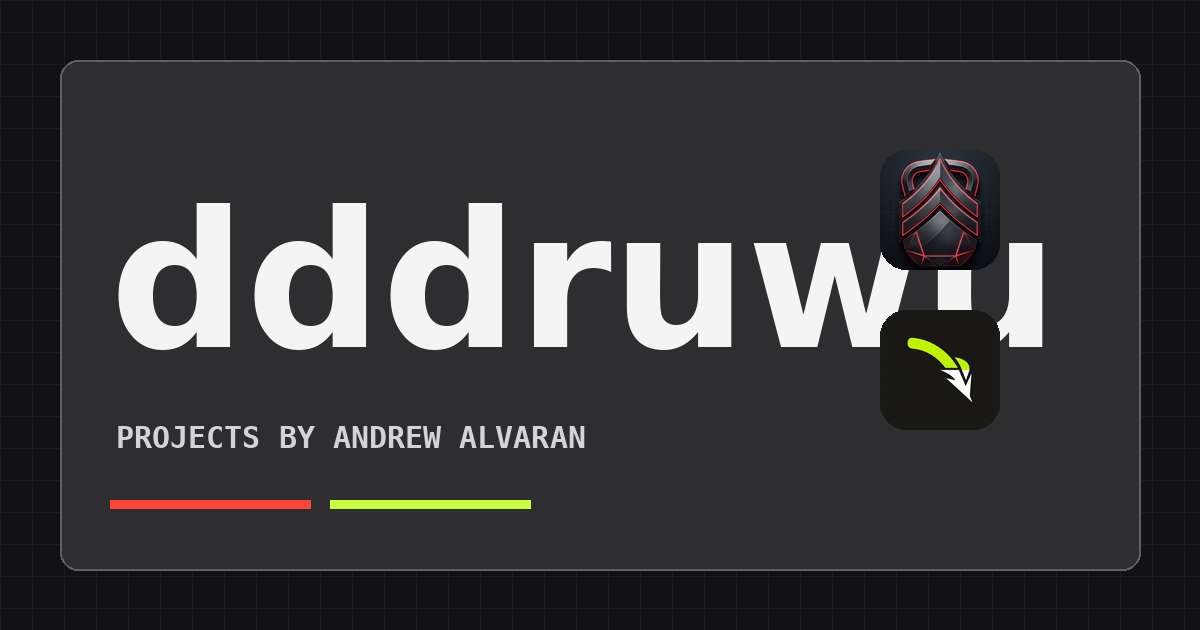
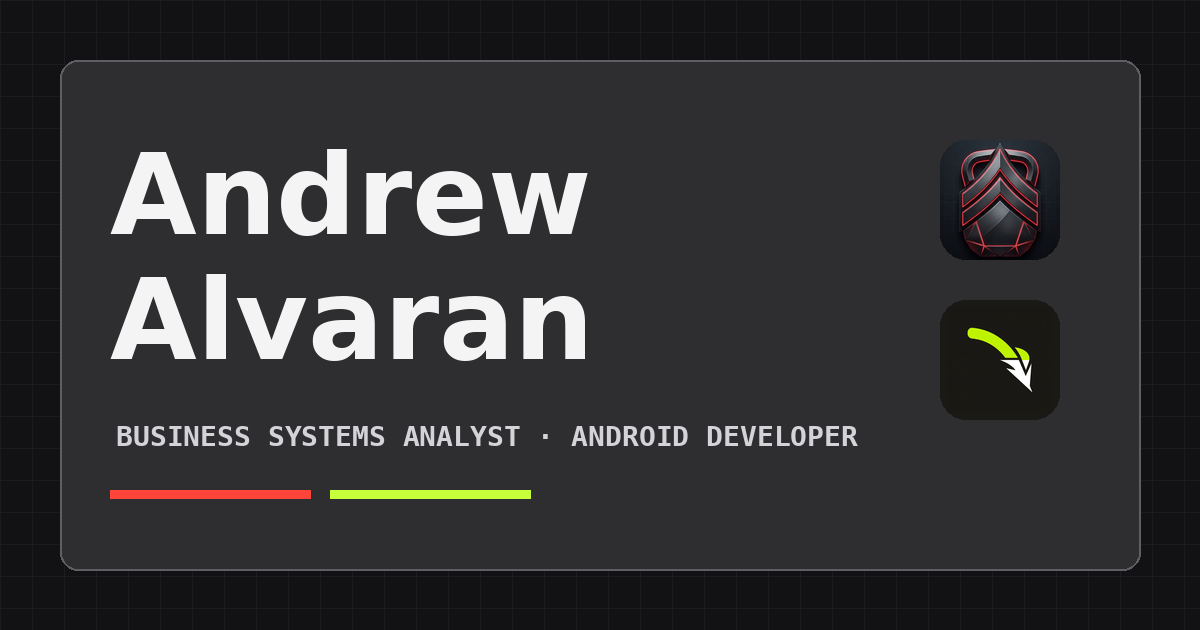
Lead the home page with my name and a portfolio About section
- Replace the dddruwu wordmark with my name and role
- Rewrite About with experience, how I build, app results and what I'm open to
- Add Experience and Open to rows, update page title and share image
- Point contact links to my personal email as an "Email me" link
- Align footer project labels with their links

Claude-Session: https://claude.ai/code/session_0122fEoC6ULMqAk4A4AtvV2r

Changed region(s): [[0.0925, 0.2111, 0.8942, 0.6937], [0.0925, 0.6635, 0.7092, 0.7238], [0.0925, 0.754, 0.4625, 0.8143]]

diff --git a/index.html b/index.html
@@ -3,16 +3,16 @@
 <head>
   <meta charset="utf-8">
   <meta name="viewport" content="width=device-width, initial-scale=1">
-  <title>dddruwu | Apps by Andrew Alvaran</title>
-  <meta name="description" content="Apps by Andrew Alvaran: Iron Commissar, a hardstyle kettlebell training app for Android, and LEANR, a body composition tracker for Android.">
+  <title>Andrew Alvaran | Business systems analyst and Android developer</title>
+  <meta name="description" content="Andrew Alvaran, a senior business systems analyst in Sydney who also builds Android apps: Iron Commissar and LEANR, both live on Google Play.">
   <meta name="theme-color" content="#121214">
   <link rel="canonical" href="https://dddruwu.com/">
 
   <!-- Link preview card when the site is shared -->
   <meta property="og:type" content="website">
-  <meta property="og:site_name" content="dddruwu">
-  <meta property="og:title" content="dddruwu | Apps by Andrew Alvaran">
-  <meta property="og:description" content="Iron Commissar and LEANR, both live on Google Play. Android apps built solo in Sydney.">
+  <meta property="og:site_name" content="Andrew Alvaran">
+  <meta property="og:title" content="Andrew Alvaran | Business systems analyst and Android developer">
+  <meta property="og:description" content="Senior business systems analyst in Sydney. Builds and ships Android apps: Iron Commissar and LEANR, both live on Google Play.">
   <meta property="og:url" content="https://dddruwu.com/">
   <meta property="og:image" content="https://dddruwu.com/assets/img/og-image.png">
   <meta name="twitter:card" content="summary_large_image">
@@ -44,14 +44,14 @@
         <nav aria-label="Main">
           <a href="#projects">Projects</a>
           <a href="#about">About</a>
-          <a href="mailto:dddruwu@gmail.com">Contact</a>
+          <a href="mailto:drewalvaran@gmail.com">Contact</a>
         </nav>
       </div>
       <div class="hero">
-        <h1 class="word">dddruwu</h1>
+        <h1 class="word"><span>Andrew</span> <span>Alvaran</span></h1>
         <div class="hero-side">
-          <span class="plate">Projects by Andrew Alvaran</span>
-          <span class="hero-note">Built solo · Sydney</span>
+          <span class="plate">Business systems analyst · Android developer</span>
+          <span class="hero-note">Sydney · apps published as dddruwu</span>
         </div>
       </div>
     </header>
@@ -128,18 +128,21 @@
       <div class="about-grid">
         <div>
           <h2>Hi, I'm Andrew.</h2>
-          <!-- Draft text: edit freely. -->
-          <p>I'm a Sydney-based developer building Android apps on my own. dddruwu is the name I publish under.</p>
-          <p>I build the tools I want to use myself, then clean them up and release them. Iron Commissar came from my own kettlebell training, and LEANR from tracking my own body composition.</p>
-          <p>By day I work as a business systems analyst, so I care about apps that are simple, honest about your data and easy to delete.</p>
+          <p>I'm a senior business systems analyst in Sydney with over 10 years across transport, logistics, retail, media and utilities. I've led system go-lives, set up EDI and integrations with partners, and supported SAP and the operational systems businesses run on every day.</p>
+          <p>I also design, build and ship Android apps on my own. I write the requirements first, then build with AI coding tools (Claude Code, React Native and Expo), review every change and test on real devices.</p>
+          <p>Iron Commissar came from my kettlebell training. It went from idea to Google Play in three months and has passed 10,000 downloads with a 4.25-star rating. LEANR came from tracking my own body composition and is now live too.</p>
+          <p>Away from the screen I'm a husband and a dad. I train with kettlebells most days, and I unwind with the odd game on my Nintendo Switch 2.</p>
+          <p>I'm open to roles, freelance work and collaborations, so feel free to get in touch.</p>
         </div>
         <dl class="facts">
           <div><dt>Based in</dt><dd>Sydney, Australia</dd></div>
-          <div><dt>Builds</dt><dd>Android apps</dd></div>
+          <div><dt>Experience</dt><dd>10+ years</dd></div>
+          <div><dt>Builds</dt><dd>Business systems · Android apps</dd></div>
           <div><dt>Projects</dt><dd>2 · both live</dd></div>
+          <div><dt>Open to</dt><dd>Roles · freelance · collaborations</dd></div>
           <!-- Social links: add another <a> line (with <br> after the previous one) to extend this list. -->
           <div><dt>Elsewhere</dt><dd><a href="https://github.com/dddruwu">GitHub ↗</a><br><a href="https://www.linkedin.com/in/andrewalvaran/">LinkedIn ↗</a><br><a href="https://www.threads.com/@dddruwu">Threads ↗</a></dd></div>
-          <div><dt>Contact</dt><dd><a href="mailto:dddruwu@gmail.com">dddruwu@gmail.com</a></dd></div>
+          <div><dt>Contact</dt><dd><a href="mailto:drewalvaran@gmail.com">Email me ↗</a></dd></div>
         </dl>
       </div>
     </article>

diff --git a/assets/css/home.css b/assets/css/home.css
@@ -113,11 +113,13 @@ a:focus-visible { outline: 2px solid var(--lime); outline-offset: 3px; }
   display: flex; flex-wrap: wrap; align-items: flex-end; justify-content: space-between; gap: 24px;
 }
 .word {
-  margin: 0; font-weight: 700; font-size: 150px; line-height: 0.95; letter-spacing: -0.05em;
+  margin: 0; font-weight: 700; font-size: 128px; line-height: 0.95; letter-spacing: -0.05em;
   background: linear-gradient(180deg, #ffffff 0%, #b8b8c0 55%, #6a6a72 100%);
   -webkit-background-clip: text; background-clip: text; color: transparent;
   filter: drop-shadow(0 3px 0 rgba(0, 0, 0, 0.55));
 }
+/* The name sits on two lines: Andrew / Alvaran */
+.word span { display: block; }
 .hero-side { display: flex; flex-direction: column; gap: 12px; align-items: flex-start; }
 .plate {
   display: inline-block; padding: 10px 14px; border-radius: 4px;
@@ -204,6 +206,8 @@ footer .container {
 }
 footer ul { display: flex; flex-wrap: wrap; gap: 4px 24px; margin: 0; padding: 0; list-style: none; }
 footer li a { display: inline-block; padding: 12px 0; }
+/* Project labels ("Iron Commissar:", "LEANR:") line up with their links */
+footer li:not(:has(a)) { padding: 12px 0; }
 footer p { margin: 0; padding: 12px 0; }
 
 /* ---- Phones and small screens ---- */
@@ -227,7 +231,7 @@ footer p { margin: 0; padding: 12px 0; }
 
   .hero { padding: 32px 20px 28px; }
   /* Sized from the screen width (vw), so phone font-size settings cannot make it overflow */
-  .word { font-size: clamp(40px, 16vw, 68px); }
+  .word { font-size: clamp(36px, 15vw, 64px); }
   .plate { max-width: 100%; font-size: 11px; letter-spacing: 0.08em; }
   .hero-note { font-size: 11px; }
 
